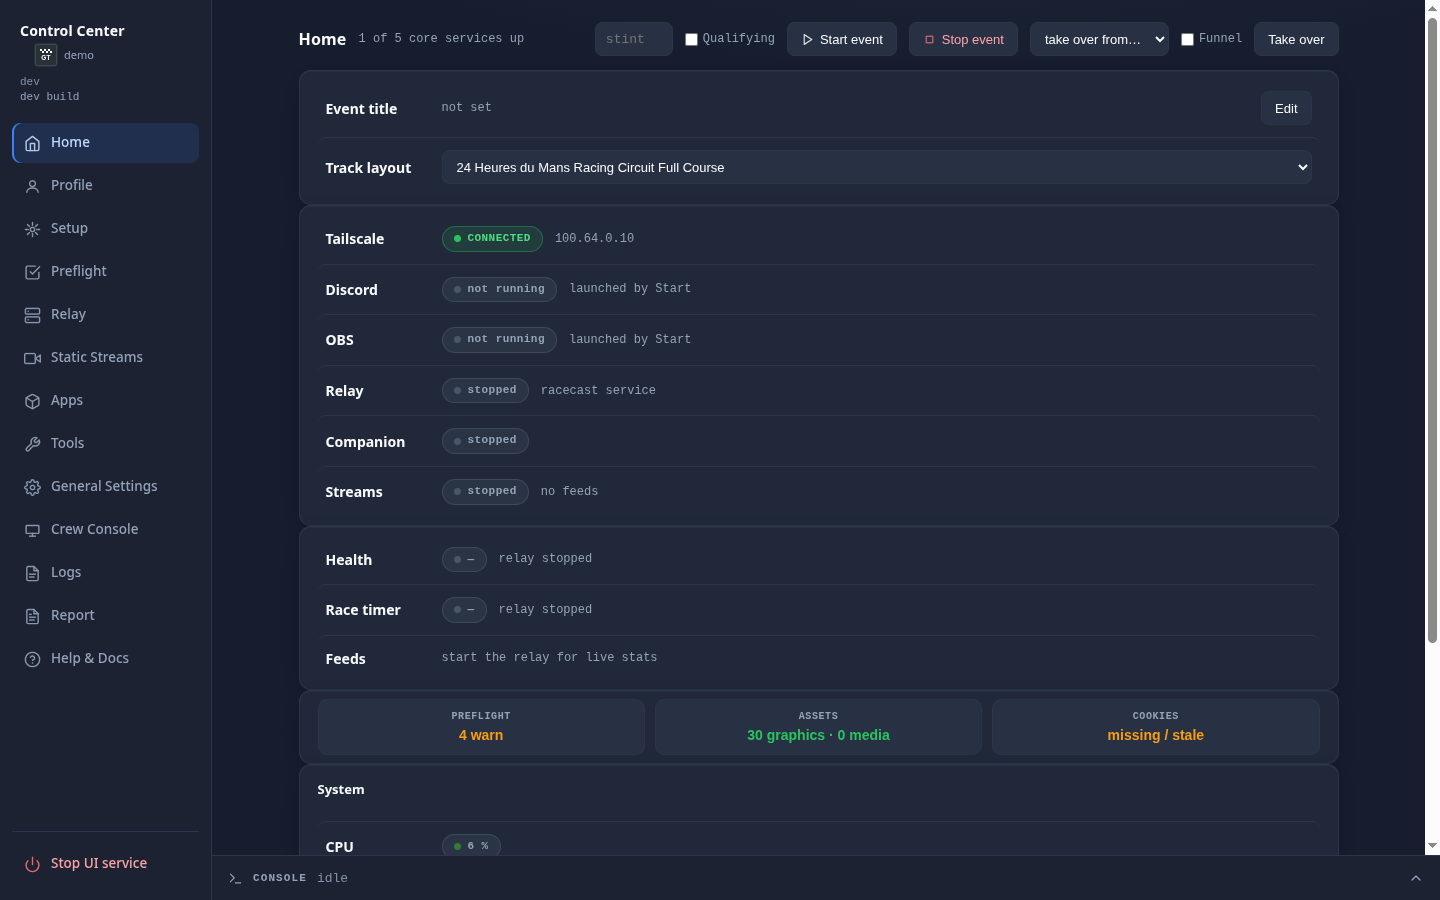
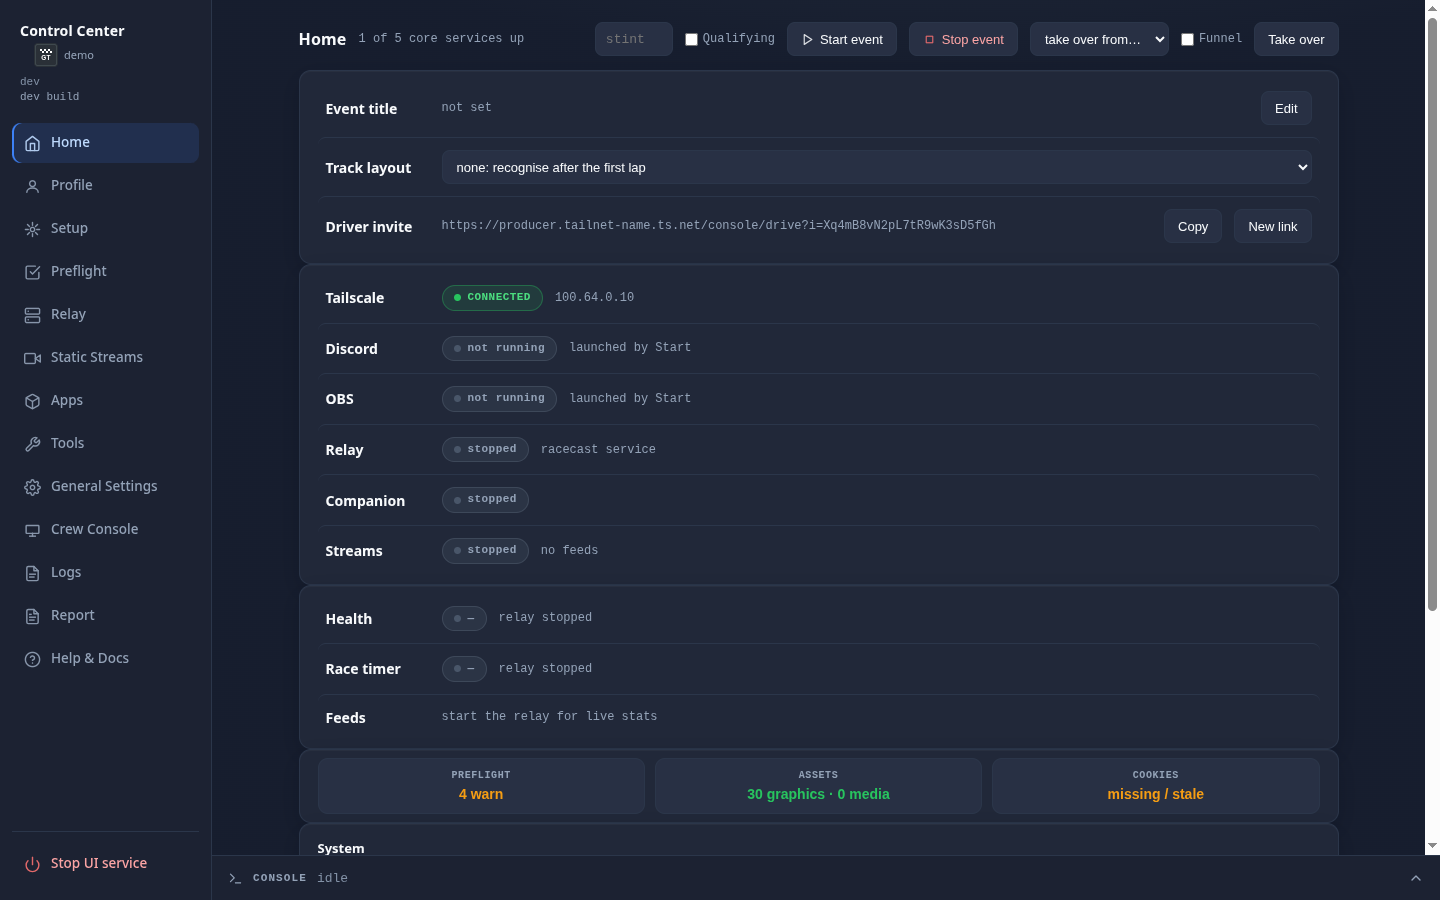
docs(telemetry): ingest contract v1, driver guide, invite in the Control Center and the Funnel boundary (#1111)

diff --git a/src/relay/CLAUDE.md b/src/relay/CLAUDE.md
@@ -378,6 +378,8 @@ Tests: tests/test_intermission_live.py and tools/e2e-intermission.py.
 
 **GT7 data and track recognition (#787).** `gt7_data` resolves each reference file (car tables from gt7info, `index.json`/`signatures.json` from gt7-datalogger-track-data) from `runtime/gt7/` when that copy validates, else from `src/assets/gt7/`. `signatures.json` never ships (upstream states no licence for it), so recognition of catalogue tracks starts after the first successful update; until then only learned tracks match. A relay start downloads nothing by default. Explicit `RACECAST_GT7_DATA_UPDATE=1` enables `gt7_data.update` at most once per 24 h in a daemon thread. The same thread then compares `gt7_data.fingerprint` (os.stat of every loaded file, learned file included) every 60 s and swaps a new `CarDB`/`TrackDB` into the store and, through `TelemetryStore.data_listeners`, into the Engineer analysis, so a manual `racecast gt7-data update` reaches a running relay within a minute. The lap accumulator keeps `(x, z)` every 20 m, up to 40 km per lap; after each closed lap `TrackDB.match` checks length (3 %), box, mean distance to the racing line (15 m) and driving direction, so a reverse layout is told apart from its forward twin. `/status` `telemetry.track` reports it; a session boundary clears it. A lap that matches nothing logs one `GT7 track: no match for a <length> m lap` line per session (layouts whose upstream capture was dropped, e.g. Autopolis Short Course, have no line and need a Set track). The exporter decides the track per GT7 session and measures `lap_dist_m` along the racing line. Learned signatures and recording assignments live in `runtime/gt7/learned-tracks.json`, which no update touches; a downloaded line wins over a learned row for the same layout or its reverse. Tests: `tests/test_gt7_data.py`, `tests/test_gt7_tracks.py`, `tests/test_telemetry_endpoints.py`.
 
+**Driver telemetry invite and ingest (#1111).** `driver_invite` keeps one invite per event in `runtime/<profile>/driver-invite.json` (read per request): `event start` creates it for a fresh session and keeps it for a takeover or recovery restart (a takeover on another machine creates one, since the Funnel host changes anyway), `event stop` deletes it, `event invite --new` and the Control Center's **New link** replace it. A driver code `D1:<payload>.<sig>` is signed with the invite id, so a new invite revokes every code, and its single dot keeps it from parsing as a console token. `_console_gate` hands `/console/drive/*` to `_drive` before the subject check: `GET /console/drive?i=` (page `src/console/drive.html`, no cookie), `/data` (Configuration entries; endurance adds the Schedule and Qualifying labels), `POST /register` (checks entry, segment and name, returns the code), `/sender.py` (the relay's own sender script) and `POST /ingest` with `X-Driver-Code`. Failed invites and codes use their own `_drive_authfail_rl`, never the console bucket. `driver_ingest.Hub` counts per connection through a `telemetry_probe.Probe` (head decrypt for loss, every 6th packet whole as the latest sample) and enforces one live sender per entry in a single lobby, two per team in endurance (`LIVE_S` 20 s); a full entry refuses a new registration (409) instead of replacing the sender, and a quiet sender coming back competes for its slot again. Tailnet: `GET /drivers/data`, `POST /drivers/disconnect {conn}` (410 for that code afterwards). Contract: `src/docs/design/driver-telemetry-ingest.md`; driver guide: wiki Driver-Telemetry. Tests: `tests/test_driver_invite.py`, `tests/test_driver_ingest.py`, `tests/test_driver_routes.py`.
+
 **Driver telemetry probe (#1110).** Maintainer measurement before the driver dashboard, off unless `RACECAST_TELEMETRY_PROBE=1` at relay start. `telemetry_probe.Probe` holds a random key per relay start; `POST /console/probe/ingest?sender=NAME` with `X-Probe-Key` is handled in `_console_gate` before the token check (failed keys share the console auth-failure rate limit). The body is batch format v1 (`RCT1`, then uint16 length plus the packet as the console sent it, at most 120 packets). The probe decrypts the first 128 bytes of every packet for the magic and the packet id (loss counting through `gt7_packet_stats`) and every 6th packet whole as a sample; 15 senders at 60 Hz cost about a third of one core in pure Python. Nothing is written to disk. Per-sender `packets` are totals over every stream (an upload stall over 5 s or a replay loop starts a new `gt7_packet_stats` stream; `current_stream` shows the open one). Senders are told apart by name only, so every sender needs its own name. A probe during a live event shares the relay's CPU with the feeds: after a Funnel outage 15 senders catch up with up to 600 packets each. `GET /telemetry/probe` (tailnet) returns the key and per-sender counters and samples, `POST /telemetry/probe/reset` clears them. The sender is `src/relay/racecast-sender.py` (stdlib only, format `A` heartbeat, `--forward` and `--listen` modes). It binds one interface, never all: the one that reaches `--console` (or the default route while discovering), loopback with `--listen`; `--bind` overrides. It removes posted packets by sequence, drops a batch the relay refuses (400), retries a refused key once a minute, survives Windows' UDP `WSAECONNRESET`, and searches a discovered console again after 30 s of silence; `tools/gt7-sim-ps5.py` and `tools/gt7-probe-load.py` are the test tools. Tests: `tests/test_telemetry_probe.py`, `tests/test_telemetry_sender.py`.
 
 **Picked track layout (#1129).** `gt7_track_pick` keeps the event's GT7 layout in `runtime/<profile>/event-track.json` for every profile kind; it stays until changed. The relay builds one `Controller` at start: it hands the pick to `TelemetryStore.set_track_pick` (which also forwards it to the Engineer analysis) and writes it into `<stem>.track.json` beside the open recording, on recording open and on every change. It never touches `learned-tracks.json`, whose stat is part of `gt7_data.data_version` and would invalidate every lap index. `session_tracks(..., pick=)` names a session after the pick unless its longest matching lap names another layout that does not list the pick among its `alternatives`; a Set track still wins. A replay (`reset_analysis` with `active`) runs without the pick in the HUD and the Engineer. `TelemetryEngine` keeps the pick separate from recognition: `track` is the pick from the first packet and after a session change, `track_check` is what recognition named this session, and `track_mismatch()` is true when that lap names another layout and the pick is not among its `alternatives`. The mismatch is a quiet health yellow (`track_mismatch`, excluded from the notify level). Routes: `GET|POST /event/track` (Director, `["event","track"]` director-tier over the Funnel) and `GET|POST /console/race-control/track` (race_control); `/status` and `/console/race-control/data` carry `track_pick`. `?layouts=1` adds the layout list; polls leave it out. CLI `racecast event track` and Control Center `/api/event-track` talk to the relay only when it runs the active profile. Recording deletion removes the sidecar. Before a lap of the session completes, the Engineer desk draws the outline from `GET /console/race-engineer/outline?track=` (`TrackDB.reference_trace`, downloaded lines only). Tests: `tests/test_gt7_track_pick.py`, `tests/test_track_pick_routes.py`.

diff --git a/src/docs/wiki/Driver-Telemetry.md b/src/docs/wiki/Driver-Telemetry.md
@@ -1,0 +1,72 @@
+# Driver telemetry: the driver guide
+
+Drivers can send their own GT7 telemetry to the broadcast. A small program, the
+**sender**, runs on a device on the same network as the PlayStation, receives the
+console's telemetry and passes it to the producer's relay. It sends nothing else, and
+it does not change what the PlayStation or your other apps do.
+
+![The invite page](images/driver-invite-page.png)
+
+## Get your command
+
+1. Open the invite link the producer shares for the event.
+2. Pick your entry and, in an endurance race, your stint or qualifying segment.
+3. Type your name and press **Get my sender command**.
+
+The page shows a command with your personal code. The code works for the whole event.
+When the producer renews the invite link, open the new link and register again.
+
+## Which setup
+
+GT7 sends telemetry to every device that asks for it, but on one device only one
+program can receive it. Pick the line that matches what you already run:
+
+- **Nothing else receives your telemetry:** run the command as shown, on a PC, laptop,
+  tablet or phone.
+- **A dashboard app on your phone:** run the sender on a second device on the same
+  network. It cannot share the phone with the app.
+- **SimHub on the same PC:** add `--forward 127.0.0.1:PORT`. The sender then passes every
+  packet to that port; point SimHub's GT7 input at it and turn SimHub's own heartbeat off.
+- **GT Race Engineer with "Telemetry Forwarding":** let it forward to a port on the same
+  device and add `--listen PORT`. The sender then sends no heartbeat of its own.
+
+The sender finds the PlayStation by itself. If it reports "no console found", add
+`--console <PlayStation IP>`; the PlayStation's network settings show its IP address.
+
+## Your platform
+
+Every platform needs the same thing from its firewall: **allow inbound UDP 33740** for
+the sender (or the `--listen` port). The console sends from a port of its own, so its
+packets do not count as an answer to the sender and a firewall drops them by default.
+
+- **Windows.** With Python 3.8 or newer from python.org, download
+  `racecast-sender.py` from the invite page and run the Python command in a terminal.
+  Without Python, download the Windows program from the invite page and run the second
+  command in the folder you saved it to. The program is not signed: SmartScreen shows
+  "Windows protected your PC", choose **More info → Run anyway**. When Windows asks
+  whether to allow the program on networks, allow **private networks**.
+- **macOS.** Python 3 from python.org, or the macOS program from the invite page. For
+  the program, run `chmod +x racecast-sender-macos` once. It is not signed: macOS refuses
+  the first start, then open **System Settings → Privacy & Security** and choose **Open
+  Anyway**. Allow incoming connections when the firewall asks.
+- **Linux.** Run the Python command. With ufw: `sudo ufw allow 33740/udp`.
+- **Android (Termux).** Install Termux, run `pkg install python`, download the script
+  with `curl -O <script link from the invite page>`, then run the Python command. Run
+  `termux-wake-lock` first so Android does not pause Termux.
+- **iPhone and iPad (a-Shell).** Download the script with `curl -O <script link>` and
+  run the Python command. iOS runs a-Shell only in the foreground: keep the screen on,
+  a-Shell in front and the device charging.
+
+## While it runs
+
+The sender prints a status line every ten seconds: packets per second received from the
+console and batches sent to the relay. It says when the console goes quiet (menus,
+replays, network) and when the upload is interrupted, and it catches up after a short
+outage. Stop it with Ctrl+C.
+
+The producer sees every sender with your entry and name, and can disconnect one. If the
+sender says your entry already has a sender, someone else registered for it; ask the
+producer.
+
+For other client developers: the ingest is a versioned HTTP contract,
+[`src/docs/design/driver-telemetry-ingest.md`](https://github.com/jegr78/gt-racing-broadcast/blob/main/src/docs/design/driver-telemetry-ingest.md).

diff --git a/src/docs/design/driver-telemetry-ingest.md b/src/docs/design/driver-telemetry-ingest.md
@@ -1,0 +1,79 @@
+# Driver telemetry ingest, contract v1
+
+The HTTP contract between a driver's sender and the relay (#1111). The sender script
+`src/relay/racecast-sender.py` implements it; any other client, such as a later native
+dashboard app, can implement it from this page. The product design lives in
+`driver-telemetry-dashboard.md`.
+
+## Credentials
+
+- **Invite link**: `https://<funnel-host>/console/drive?i=<invite>`. One per event:
+  `racecast event start` creates it, `racecast event stop` deletes it, and
+  `racecast event invite --new` or the Control Center's **New link** replaces it. The
+  invite only opens the registration below.
+- **Driver code**: what registration returns, `D1:<payload>.<signature>`. The payload
+  names the entry, the stint or qualifying segment (endurance only), the driver's name
+  and a random connection id. The relay signs it with the invite, so a new invite
+  revokes every code. A code never authenticates any other `/console` page.
+
+## Registration
+
+`GET /console/drive/data?i=<invite>` returns
+
+```json
+{"v": 1, "multi_lobby": false, "entries": ["OVO eSports #111"], "segments": [], "rate_hz": 20}
+```
+
+`entries` are the rows of the league's `Configuration` tab. `multi_lobby` is true for
+endurance; `segments` then lists the stint and qualifying labels of the `Schedule` and
+`Qualifying` tabs, and registration needs one of them.
+
+`POST /console/drive/register?i=<invite>` with
+`{"entry": "...", "segment": "...", "name": "..."}` returns `{"ok": true, "v": 1,
+"code": "D1:..."}`. The name takes up to 32 ASCII letters, digits, spaces, `_ . -`,
+because it ends up in a command line. `GET /console/drive/sender.py?i=<invite>`
+serves the sender script of the running relay.
+
+## Ingest
+
+`POST /console/drive/ingest` with
+
+- header `X-Driver-Code: D1:...`
+- optional header `X-Sender-Stats`: a JSON object of integer counters the sender
+  reports (`received`, `forwarded`, `posted`, `dropped`, `post_failed`,
+  `interruptions`, `heartbeats`); other keys are ignored
+- body, batch format v1: the four bytes `RCT1`, then for each packet a big-endian
+  uint16 length and the packet exactly as the console sent it, still encrypted. At
+  most 120 packets of at most 512 bytes each.
+
+A sender posts batches at `rate_hz` (default 20 per second) and keeps every packet
+in order. The relay decrypts and filters, so a new field never needs a sender update.
+Packets of any GT7 format (`A`, `B`, `~`) are accepted; the sender script requests `A`
+so a driver's other receivers keep working.
+
+Reply `200`: `{"ok": true, "v": 1, "rate_hz": 20, "accepted": N}`. A client follows
+`rate_hz` from every reply.
+
+| Status | Meaning | Client action |
+|---|---|---|
+| 400 | malformed batch | drop that batch |
+| 403 | invalid or revoked code | register again (the sender script retries once a minute and tells the driver) |
+| 409 | the entry already has its live senders | retry rarely; the producer can disconnect the other one |
+| 410 | the producer disconnected this sender | register again |
+| 413 | body too large | send smaller batches |
+| 429 | too many failed attempts or senders | retry after a minute |
+
+## Limits
+
+- One live sender per entry in a single-lobby race, two per team in endurance (the
+  driver on track and the one waiting in the next lobby). A connection is live while
+  its batches arrive; after 20 s without one its slot is free.
+- A second registration for a full entry is refused, not swapped in. A sender that
+  restarts with its own code is the same connection.
+- The producer sees every connection on the tailnet (`GET /drivers/data`) and
+  disconnects one with `POST /drivers/disconnect {"conn": "..."}`.
+
+## Versioning
+
+`v` in every reply is the contract version. A change that an existing client cannot
+follow raises it; the relay then states which versions it accepts.

diff --git a/CLAUDE.md b/CLAUDE.md
@@ -221,10 +221,12 @@ Security boundaries that apply everywhere:
   (the redacted takeover status is an allowlist, not a blocklist).
 - Everything under `/console` is authenticated server-side: a per-person token signed
   with the league `CONSOLE_SECRET`, or Discord OAuth when configured. The takeover
-  endpoints additionally require the step-up `X-Console-Secret` header. The one
-  exception is the driver telemetry probe ingest `/console/probe/ingest`, off unless
-  `RACECAST_TELEMETRY_PROBE=1`: it takes a random per-relay-start key in `X-Probe-Key`
-  and only counts packets.
+  endpoints additionally require the step-up `X-Console-Secret` header. Two exceptions
+  take no console identity and reach nothing else: the driver telemetry routes under
+  `/console/drive` (#1111), authorized by the event's invite link and the driver codes it
+  signs (`driver_invite`), and the maintainer probe ingest `/console/probe/ingest`, off
+  unless `RACECAST_TELEMETRY_PROBE=1`, with a random per-relay-start key in `X-Probe-Key`.
+  Both only accept encrypted GT7 packets and count them.
 - No destructive HTTP endpoint for chat or cues: clear/import/pull stay producer-only CLI
   actions. A commentator's stream-link submission is own-rows-only and lands as pending,
   never auto-published.

diff --git a/src/docs/wiki/Control-Center.md b/src/docs/wiki/Control-Center.md
@@ -63,7 +63,10 @@ the `racecast` services down. The sidebar also shows the **active league profile
 (click it to jump to the Profile view). From here you also open the Director panel
 and copy the director / Web Buttons links. Under the event title, **Track layout** picks
 the event's GT7 layout for the telemetry (see [Telemetry](Telemetry)); a layout marked
-"no line" has no downloaded racing line and shows a warning.
+"no line" has no downloaded racing line and shows a warning. **Driver invite** shows the
+link drivers open to send their telemetry ([driver guide](Driver-Telemetry)): **Start
+event** creates it, **Stop event** ends it, **Copy** copies it and **New link** replaces
+it, after which every driver registers again.
 
 #### System
 
@@ -76,7 +79,7 @@ Center is open, whether or not the relay is running, the machine-resource histor
 in the [Health Monitor](Health-Monitor), by contrast, are recorded by the relay.
 
 > **CLI alternative:** `racecast status`, `racecast event start [--stint N]`, `racecast event stop`,
-> `racecast event track [ID|--clear|--list]`.
+> `racecast event track [ID|--clear|--list]`, `racecast event invite [--new]`.
 
 ### Profile
 

diff --git a/src/docs/wiki/Remote-access.md b/src/docs/wiki/Remote-access.md
@@ -155,6 +155,13 @@ What stays private (reachable only on the tailnet or loopback, never over Funnel
   not funnelled; the relay proxies only the web-buttons page at `/console/buttons` (see
   below).
 
+**Driver telemetry (`/console/drive`).** The one `/console` area that takes no console
+identity: the event's invite link (`?i=`) opens the registration page, and the driver
+code it issues authorizes only `POST /console/drive/ingest`, which accepts encrypted GT7
+packets and counts them. Neither credential opens any other `/console` page. `racecast
+event stop` ends the invite and `racecast event invite --new` replaces it, which revokes
+every code. See the [driver guide](Driver-Telemetry).
+
 Confirm the boundary from outside the tailnet after `racecast funnel on`:
 `https://<magicdns-host>/status` and `/panel` must **not** load, only `/console` should.
 

diff --git a/tools/CLAUDE.md b/tools/CLAUDE.md
@@ -22,6 +22,9 @@ Releases: merge the standing **release-please** Release PR (or push a `v*` tag m
 both work). `.github/workflows/release.yml` tests, builds, smoke-tests and uploads
 `racecast-windows.zip` / `racecast-macos.tar.gz` / `racecast-linux.tar.gz` /
 `racecast-linux-arm64.tar.gz` (each contains the `racecast` binary + `.env.example`;
+the Windows and macOS jobs also upload the driver sender as `racecast-sender-windows.exe`
+and `racecast-sender-macos`, a separate stdlib-only one-file build with a `--help` smoke
+that the invite page links by release tag, #1111;
 on first run the frozen binary copies it to `.env`: see `ensure_env_file`). The two
 Linux archives are built natively on the `ubuntu-latest` (x86-64) and
 `ubuntu-24.04-arm` (ARM64) matrix runners; `update.asset_name()` picks the right one

diff --git a/src/docs/wiki/_Sidebar.md b/src/docs/wiki/_Sidebar.md
@@ -14,6 +14,7 @@
 - [Director guide](Director)
 - [The Console launcher](Console)
 - [Driver radio](Driver-Radio)
+- [Driver telemetry (driver guide)](Driver-Telemetry)
 - [Commentator Cockpit](Commentator-Cockpit)
 - [Race Control (monitoring desk)](Console#race-control-read-only-monitoring-desk)
 - [Health Monitor](Health-Monitor)
